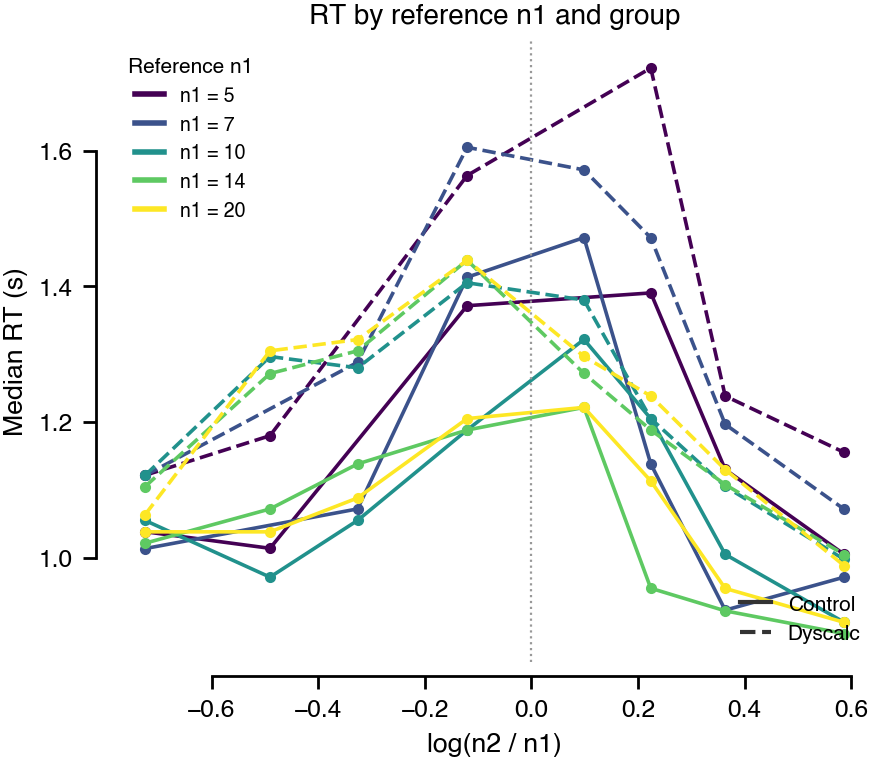
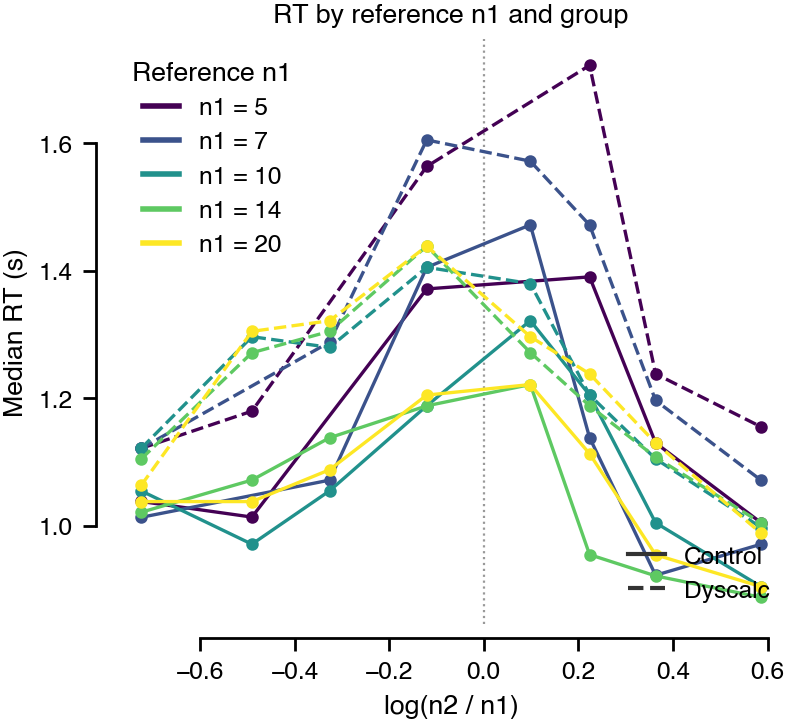
Rebuild script for supp_rt_by_n1_group
Reconstructs the never-committed script; reproduces the original
figure's values (8 global log-ratio quantile bins, pooled median RT per
group x n1 x bin). PROVENANCE updated.

diff --git a/plot_supp_rt_by_n1_group.py b/plot_supp_rt_by_n1_group.py
@@ -1,0 +1,72 @@
+"""Supplementary figure: raw median RT as a function of log(n2/n1), split by
+the reference (first) number n1 and by group. Model-free; plots the
+behavioural data directly.
+
+Binning: log(n2/n1) is cut into 8 global quantile bins (pd.qcut over all
+trials, both groups, all n1), so every line shares the same x positions.
+x = mean log(n2/n1) of the trials in each bin; y = median RT pooled over
+all trials of that (group, n1, bin) cell (not a median of subject medians).
+
+    python plot_supp_rt_by_n1_group.py
+    # reads data/magjudge_behavior_DNumRisk.csv (gitignored, human-subjects)
+    # writes notes/figures/supp_rt_by_n1_group.{pdf,png}
+
+Reconstruction note: the original script for this figure (2026-08-17) was
+never committed. This one reproduces the original figure's values; see
+notes/figures/PROVENANCE.md.
+"""
+import os.path as op
+
+import matplotlib.pyplot as plt
+import numpy as np
+import pandas as pd
+from matplotlib.lines import Line2D
+
+import figstyle
+
+figstyle.apply()
+HERE = op.dirname(op.abspath(__file__))
+DATA = op.join(HERE, "data", "magjudge_behavior_DNumRisk.csv")
+OUT = op.join(HERE, "notes", "figures", "supp_rt_by_n1_group.pdf")
+N_BINS = 8
+LS = {"control": "-", "dyscalc": "--"}
+LABEL = {"control": "Control", "dyscalc": "Dyscalc"}
+
+
+def summarize(df):
+    df = df.copy()
+    df["lr"] = df["log(n2/n1)"]
+    df["bin"] = pd.qcut(df["lr"], N_BINS)
+    x = df.groupby("bin", observed=True)["lr"].mean().rename("x")
+    s = (df.groupby(["group", "n1", "bin"], observed=True)["rt"].median()
+         .rename("median_rt").reset_index()
+         .merge(x, left_on="bin", right_index=True))
+    return s
+
+
+def main():
+    s = summarize(pd.read_csv(DATA))
+    n1s = sorted(s["n1"].unique())
+    pal = dict(zip(n1s, plt.cm.viridis(np.linspace(0, 1, len(n1s)))))
+
+    fig, ax = plt.subplots(figsize=(4.4, 3.8))
+    for (g, n1), sub in s.groupby(["group", "n1"]):
+        sub = sub.sort_values("x")
+        ax.plot(sub["x"], sub["median_rt"], ls=LS[g], color=pal[n1],
+                marker="o", ms=3.5)
+    ax.axvline(0, color="0.6", lw=0.8, ls=":", zorder=0)
+    ax.set_xlabel("log(n2 / n1)")
+    ax.set_ylabel("Median RT (s)")
+    ax.set_title("RT by reference n1 and group")
+
+    leg1 = ax.legend([Line2D([], [], color=pal[n], lw=2) for n in n1s],
+                     [f"n1 = {n}" for n in n1s], title="Reference n1",
+                     loc="upper left")
+    ax.add_artist(leg1)
+    ax.legend([Line2D([], [], color="0.2", ls=LS[g], lw=1.5) for g in LS],
+              [LABEL[g] for g in LS], loc="lower right")
+    figstyle.finish(fig, OUT)
+
+
+if __name__ == "__main__":
+    main()

diff --git a/notes/figures/PROVENANCE.md b/notes/figures/PROVENANCE.md
@@ -229,10 +229,17 @@ misreading magnitudes across rows.
 
 ## `supp_rt_by_n1_group.{pdf,png}`
 
-**Script also missing**, same situation as `supp_ddm_vs_rdm` above
-(created 2026-08-17 12:52, nothing in git history, working tree, or shell
-history). Not yet rebuilt — nobody has asked for this one yet. Flagging
-here so it isn't mistaken for "fine" just because nobody's raised it.
+`plot_supp_rt_by_n1_group.py` (repo root, committed) ←
+`data/magjudge_behavior_DNumRisk.csv` (gitignored, human-subjects). Model-free.
+
+**Reconstruction (2026-11-12).** The original script (figure created
+2026-08-17 12:52) was never committed and could not be found. The rebuilt
+script reverse-engineers its recipe: 8 global quantile bins of log(n2/n1)
+(`pd.qcut` over all trials), x = mean log(n2/n1) per bin, y = median RT
+pooled over trials per (group, n1, bin). All 80 cell values match the
+original figure to the plotted precision, including the two cells absent
+for n1 = 5 and n1 = 7 (no trials in those bins). Only cosmetic differences
+(house font sizes).
 
 ## `rdm_priors_revised.docx` (new, 2026-08-25)
 
